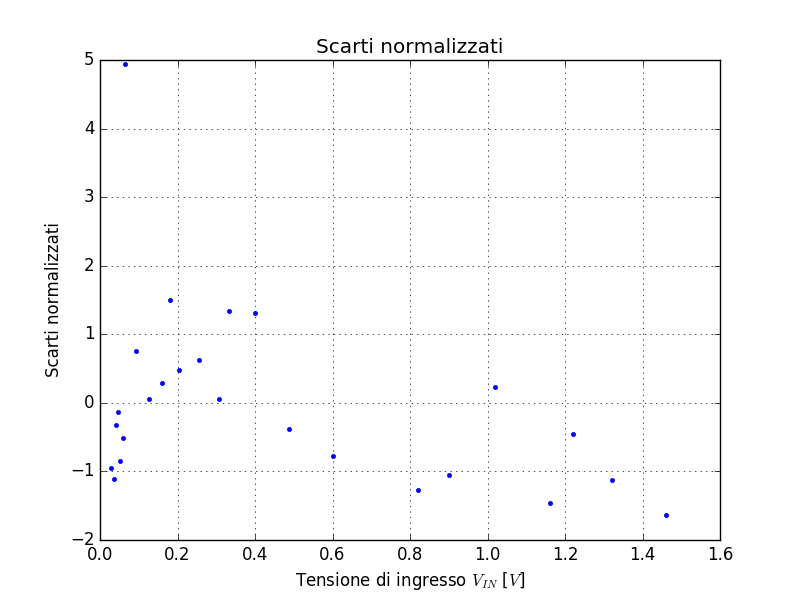
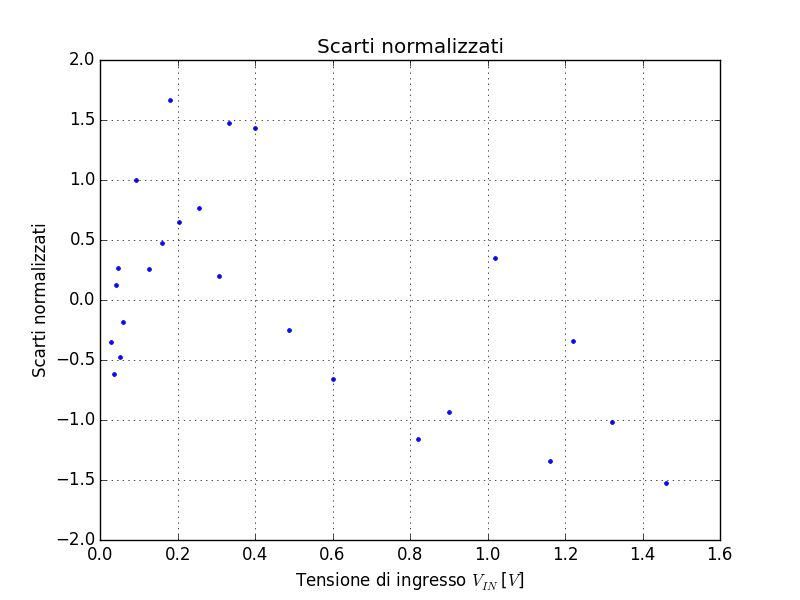
ciao di dimensioni adeguate

diff --git a/Esercitazione4/relazione/Relazione4.tex b/Esercitazione4/relazione/Relazione4.tex
@@ -48,14 +48,14 @@ Il circuito è stato realizzato usando i componenti riportati riportati di segui
 \begin{table}[h!]
 \centering
 \begin{tabular}{cccc}
-$R_1 = \unit{177.1 \pm 1.5}{\kilo\ohm}$ & $R_2 = \unit{18.06 \pm 0.15}{\kilo\ohm}$ & $R_C = \unit{9.93 \pm 0.09}{\kilo\ohm}$ & $R_E = \unit{986 \pm 9}{\ohm}$ \\
+$R_1 = \unit{177.1 \pm 1.5}{k\ohm}$ & $R_2 = \unit{18.06 \pm 0.15}{\kilo\ohm}$ & $R_C = \unit{9.93 \pm 0.09}{\kilo\ohm}$ & $R_E = \unit{986 \pm 9}{\ohm}$ \\
 $C_{IN} = \unit{230 \pm 10}{\nano\farad}$ & $C_{OUT} = \unit{98 \pm 6}{\nano\farad}$ & $C_E = \unit{100 \pm 10}{\micro\farad}$\\
 \end{tabular}
 %\caption{Valori dei componenti utilizzati per la realizzazione dell'amplificatore}
 \label{tab:componenti}
 \end{table}
 \noindent Ad eccezione dell'ultima parte dell'esperienza non è stata usata la resistenza $R_{es}$.
-
+%aggiungere immagine circuito
 \subsection{Misure e valori attesi}
 
 \paragraph{Punto di lavoro}
@@ -97,23 +97,24 @@ $V_B^{exp} = \unit{1.701 \pm 0.019}{\volt}$ & $V_E^{exp} = \unit{1.076 \pm 0.20}
 \end{tabular}
 \end{table}
 
-Non si riporta il valore atteso di $V_{BE}$ in quanto è stato usato proprio il valore misurato per ricavare gli altri. Si nota però che approssimativamente corrisponde ai valori tipici noti di $\sim \unit{0.6-0.7}{\volt}$
+Non si riporta il valore atteso di $V_{BE}$ in quanto è stato usato proprio il valore misurato per ricavare gli altri. Si nota però che approssimativamente corrisponde ai valori tipici noti di $\sim \unit{0.6-0.7}{\volt}$.
 % non so se ha veramente senso includere quest'ultima parte
 % pensiamo abbia senso, stiamo a vedere come la valutano
-
-\paragraph{Conclusioni}Le misure sono tutte compatibili con i valori attesi, ad eccezione della corrente di collettore che risulta poco inferiore alla previsione (la differenza fra $I_C$ misurata e attesa è $\unit{-24 \pm 23}{\micro\ampere}$).
 
 Si riportano le formule usate per calcolare le tensioni e le correnti attese, noti i valori delle resistenze e $V_{BE}$ e $V_{CC}$, oltre ovviamente al guadagno in corrente $h_{FE}$\footnote{nei calcoli si è usato il valore e la relativa incertezza ricavati nella esperienza precedente, ovvero $h_{FE} = 130.1 \pm 2.2$}; in particolare si riportano quelle per $V_B$ e $I_B$, le altre seguono direttamente da queste, senza ulteriori conti.
 \begin{align*}
 I_B &= \frac{\frac{R_2}{R_1 + R_2} V_{CC} - V_{BE}}{R_E (h_{FE} + 1) + R_1 // R_2} \\
 V_B &= V_{BE} + R_E (h_{FE} + 1) I_B
 \end{align*}
+\paragraph{Conclusioni}Le misure sono tutte compatibili con i valori attesi, ad eccezione della corrente di collettore che risulta poco inferiore alla previsione (la differenza fra $I_C$ misurata e attesa è $\unit{-24 \pm 23}{\micro\ampere}$).
+
+
 
 \subsection{Partitore $R_1-R_2$}
 Il valore di $I_B$ è dunque $I_C/h_{FE} = \unit{8.13 \pm 0.15}{\micro\ampere}$, mentre la corrente che passa per la resistenza $R_1$ è pari a $I_1 = \unit{102.5 \pm 1.1}{\micro\ampere}$, per cui $I_B$ è $\sim 8\%$ della corrente che scorre nel partitore. In questo caso non si può affermare che il partitore sia stiff, infatti $I_B$ è solo un ordine di grandezza più piccola della corrente $I_1$, per cui il rapporto di partizione non è indipendente dalla richiesta di corrente del transistor.
 
 \section{Risposta a segnali sinusoidali a frequenza fissa}
-Si è misurato il guadagno per varie ampiezze del circuito amplificatore riportato sulla scheda, escludendo $C_E$ ed $R_E$ (cioè disconnettendoli).
+Si è misurato il guadagno per varie ampiezze del circuito amplificatore riportato sulla scheda, escludendo $C_E$ ed $R_{es}$ (cioè disconnettendoli).
 
 \paragraph{Inversione di fase} Si è osservato che il segnale in uscita risultava in opposizione di fase rispetto al segnale in ingresso, come atteso. Si riporta in \figurename{\ref{fig:sfasamento}} la relativa schermata dell'oscilloscopio.
 
@@ -125,60 +126,70 @@ Si è misurato il guadagno per varie ampiezze del circuito amplificatore riporta
 \end{figure}
 
 \paragraph{Guadagno e linearità del circuito}
-Si è fittato il guadagno in tensione del circuito $A_V$ ottenendo per esso un valore di $9.62 \pm 0.09$, con un $\chi^2 / ndof = 10.1 / 26$. Si può affermare, dal grafico degli scarti, che la linearità è preservata per le tensioni d'ingresso che non portano il transistor in clipping.
+Si è fittato il guadagno in tensione del circuito $A_V$ ottenendo i seguenti risultati:
+\begin{table}[h!]
+	\centering
+	\begin{tabular}{ccc}
+		$A_v = 9.75 \pm 0.07$ & intercetta: $\unit{-0.015 \pm 0.006}{\volt}$ & $\chi^2 / ndof = 18.3 / 22$
+	\end{tabular}
+\end{table}
+ 
+ Che concorda entro $2\sigma$ con il valore atteso di $A_v = R_C/R_E = 10.07\pm0.13$.
+ 
+ I dati raccolti sono riportati in appendice in \tablename{\ref{tensione}} con gli outlier marcati dal simbolo $\spadesuit$, mentre il grafico delle misure e del fit è riportato di seguito. 
+ Da qui in poi gli errori di calibrazione verranno ignorati e verranno considerati solo gli errori di lettura, poiché sono quelli importanti ai fini dell'analisi dati, nel calcolo del guadagno infatti si effettua il rapporto tra due tensioni che sono affette dai medesimi errori di percentuali di calibrazione.
+ 
+ Si può affermare, dal grafico degli scarti, che la linearità è preservata per le tensioni d'ingresso che non portano il transistor in clipping.
 
-\begin{figure}
+\begin{figure}[h!]
 \centering
-\begin{minipage}[c]{0.7\textwidth}
-\centering
-\includegraphics[width=\textwidth]{../grafici/fit_guadagnopiccolisegnali.pdf}
-\end{minipage}
+\includegraphics[width=0.7\textwidth]{../grafici/fit_guadagnopiccolisegnali.pdf}
 \caption{Grafico e scarti del fit del guadagno del circuito per piccoli segnali}
 \end{figure}
 
 \paragraph{Clipping}
-Il segnale in uscita risultava simmetrico fino ad ampiezze di $\sim \unit{1.7}{\volt}$ in ingresso.
+Il segnale in uscita risulta sinusoidale fino ad ampiezze di $\sim \unit{1.7}{\volt}$ in ingresso.
 % forse avremmo potuto stimare un errore su quei 1.7 V, magari possiamo stimarlo "a memoria"
 % nessuno ci ha chiesto una misura quantitativa, era richiesto solo un resoconto qualitativo, quindi lasciamo il circa anziché l'errore, però stiamo a vedere come ce la valutano
-Per intensità maggiori si osservava che l'uscita era tagliata dal basso. Questo taglio del segnale (riportato in \figurename{\ref{fig:clipping}}) corrisponde ad un regime di funzionamento del transistor diverso da quello attivo, in cui sarebbe preservata la linearità.
+Per intensità maggiori si osserva che l'uscita è tagliata dal basso. Questo taglio del segnale (riportato in \figurename{\ref{fig:clipping}}) corrisponde ad un regime di funzionamento del transistor diverso da quello attivo, in cui sarebbe preservata la linearità.
 
 Si può identificare tale regime con quello di saturazione. Infatti quando scorre una maggiore corrente nel collettore si ha una caduta di potenziale maggiore su $R_C$, e dunque una minore tensione in uscita. Arrivando in saturazione il transistor non è in grado di erogare una corrente maggiore, e quindi la caduta di potenziale si assesta su un certo valore, finché la richiesta di corrente non diminuisce e il segnale in uscita riprende a salire.
 
 \begin{figure}[h!]
 	\centering
 	\includegraphics[width=0.54\textwidth]{../oscilloscopio/firstclipbasso.jpg}
-	\caption{}
+	\caption{clipping in saturazione}
 	\label{fig:clipping}
 \end{figure}
 
-Si era trovato che il punto di lavoro del transistor era fissato ad una corrente di collettore relativamente bassa, e quindi vicina al regime di interdizione. Tracciando la retta di carico si nota però che la pendenza di questa è relativamente piccola in valore assoluto, per cui, per ottenere spostamenti verticali\footnote{sul grafico delle curve caratteristiche di collettore, quindi piccole variazioni di $I_C$} anche ridotti, che porterebbero il transistor a lavorare in interdizione, si hanno notevoli spostamenti orizzontali\footnote{cioè variazioni di $V_{CE}$}, che portano dunque il transistor a lavorare in saturazione per segnali in ingresso di ampiezza minore rispetto a quelli che sarebbero necessari a portarlo in interdizione.
+Si è trovato che il punto di lavoro del transistor è fissato ad una corrente di collettore relativamente bassa, e quindi vicina al regime di interdizione. Tracciando la retta di carico si nota però che la pendenza di questa è relativamente piccola in valore assoluto, per cui, per ottenere spostamenti verticali\footnote{sul grafico delle curve caratteristiche di collettore, quindi piccole variazioni di $I_C$} anche ridotti, che porterebbero il transistor a lavorare in interdizione, si hanno notevoli spostamenti orizzontali\footnote{cioè variazioni di $V_{CE}$}, che portano dunque il transistor a lavorare in saturazione per segnali in ingresso di ampiezza minore rispetto a quelli che sarebbero necessari a portarlo in interdizione.
 % poi ci metto qualche numerello per rendere la cosa più quantitativa
 % come per il commento precedente non era richiesto nulla se non qualitativo, stiamo a vedere
 
-Per segnali in ingresso di ampiezza ancora maggiore ottengo il taglio dell'uscita anche dall'alto, arrivando a oscillare quindi tra i due regimi di saturazione e interdizione, si veda \figurename{\ref{fig:clippingdoppio}}.
+Per segnali in ingresso di ampiezza ancora maggiore si ottiene il taglio dell'uscita anche dall'alto, arrivando a oscillare quindi tra i due regimi di saturazione e interdizione, si veda \figurename{\ref{fig:clippingdoppio}}.
 
 \begin{figure}[h!]
 	\centering
 	\includegraphics[width=0.54\textwidth]{../oscilloscopio/clipall.jpg}
-	\caption{}
+	\caption{clipping in saturazione e interdizione}
 	\label{fig:clippingdoppio}
 \end{figure}
 
 \subsection{Impedenza d'ingresso}
 I valori ottenuti di $V_1$ e $V_2$, con riferimento alla scheda, sono rispettivamente $\unit{1.360 \pm 0.008}{\volt}$ e $\unit{700 \pm 4}{\milli\volt}$, e per misurarle si è usata una resistenza $R_S = \unit{14.70 \pm 0.13}{\kilo\ohm}$.
-Si è così ottenuta un'impedenza d'ingresso pari a $R_{in} = \unit{15.6 \pm 0.3}{\kilo\ohm}$.
+Si è così ottenuta un'impedenza d'ingresso pari a $R_{in} = \unit{15.6 \pm 0.3}{\kilo\ohm}$ che   con il valore atteso di $R^{exp}_{in} = \unit{14.59 \pm 0.10}{k\ohm}$.
 
 \subsection{Impedenza d'uscita}
 Come nel paragrafo precedente: $V_1 = \unit{12.8 \pm 0.07}{\volt}$, $V_2 = \unit{6.56 \pm 0.04}{\volt}$, $R_L = \unit{9.87 \pm 0.09}{\kilo\ohm}$.
-Si è così ottenuta un'impedenza d'uscita pari a $R_{out} = \unit{9.39 \pm 0.19}{\kilo\ohm}$.
+Si è così ottenuta un'impedenza d'uscita pari a $R_{out} = \unit{9.39 \pm 0.19}{\kilo\ohm}$ che non concorda con il valore atteso di $R_{out}^{exp} = \unit{9.93 \pm 0.09}{\kilo\ohm}$.
 
 \section{Risposta in frequenza}
 
-Si è misurata la risposta in frequenza del circuito in esame in un range tra $\unit{10}{\hertz}$ ed $\unit{1}{\mega\hertz}$ con una tensione di ingresso costante di $\unit{1.00 \pm 0.03}{\volt}$. Di seguito si riportano i dati raccolti e il diagramma di Bode da questi ricavato. In tutte le tabelle e nell'analisi dati sono state ignorate le incertezze di calibrazione, e sono stati considerati solo gli errori di lettura. I dati raccolti sono elencati in \tablename{\ref{frequenza}}.
+Si è misurata la risposta in frequenza del circuito in esame in un range tra $\unit{10}{\hertz}$ ed $\unit{1}{\mega\hertz}$ con una tensione di ingresso costante di $\unit{1.00 \pm 0.03}{\volt}$. I dati raccolti sono elencati in appendice in \tablename{\ref{frequenza}} e di seguito è riportato il grafico delle misure effettuate.
 
 \begin{figure}[h!]
 	\centering
-		\includegraphics[width=0.8\textwidth]{../grafici/fast_plot_f_domain.pdf}
+		\includegraphics[width=0.7\textwidth]{../grafici/fast_plot_f_domain.pdf}
 		\caption{Risposta in frequenza}
 		\label{early}
 \end{figure}
@@ -196,7 +207,7 @@ Il grafico mostra un comportamento divisibile in tre bande di risposta:
 \end{itemize}
 
 Si è stimata la frequenza di taglio del circuito misurando la frequenza per la quale si ha che il guadagno si riduce di un fattore $1/\sqrt{2}$ rispetto a quello misurato nella banda centrale. Si è stimato l'errore valutando quando, al variare della frequenza, si misurava una variazione apprezzabile della tensione di uscita.
-I risultati ottenuti sono stati: $f_1 = \unit{51 \pm 4}{\hertz}$ e $f_2= \unit{92 \pm 7}{\kilo\hertz}$.
+I risultati ottenuti sono stati: $f_{low} = \unit{51 \pm 4}{\hertz}$ e $f_{high}= \unit{92 \pm 7}{\kilo\hertz}$.
 Si è quindi provato a fittare il comportamento a basse e alte frequenze nell'ipotesi fatta precedentemente che il circuito si comporti come se fosse in serie ad un filtro passa alto/basso rispettivamente.
 I risultati dei fit sono stati:
 \begin{table}[h!]
@@ -223,10 +234,11 @@ Di seguito riportiamo i grafici dei fit eseguiti.
 \end{figure}
 
 \paragraph{Conclusioni}
-Tutte le misure di $f_{low}$ sono compatibili tra loro e con il valore atteso a meno di $1\sigma$, anche le misure di $f_{high}$ sono compatibili tra loro e concordano almeno in ordine di grandezza con la stima del valore atteso.
+Tutte le misure di $f_{low}$ sono compatibili tra loro e con il valore atteso a meno di $1\sigma$, anche le misure di $f_{high}$ sono compatibili tra loro e concordano almeno in ordine di grandezza con la stima del valore atteso. I valori di $A_v$ invece non concordano con quelli attesi.
+
 \section{Aumento del guadagno}
 
-Si è inserita la resistenza $Res = \unit{100.7 \pm 1.1}{\ohm}$ nel circuito e si è proceduto alla misura del guadagno al variare delle tensione di ingresso (a frequenza costante di $\unit{5.03 \pm 0.05}{\kilo\hertz}$). I dati raccolti sono riportati in appendice in \tablename{\ref{guadagno}}.
+Si è inserita la resistenza $R_{es} = \unit{100.7 \pm 1.1}{\ohm}$ nel circuito e si è proceduto alla misura del guadagno al variare delle tensione di ingresso (a frequenza costante di $\unit{5.03 \pm 0.05}{\kilo\hertz}$). I dati raccolti sono riportati in appendice in \tablename{\ref{guadagno}}.
 
 \begin{figure}[h!]
 	\centering
@@ -238,28 +250,31 @@ Il guadagno è stato valutato fittando con una retta $V_{IN}$ in funzione di $V_
 \begin{table}[h!]
 \centering 
 \begin{tabular}{ccc}
-$A_v = -80.5 \pm 2.6$ & intercetta di $\unit{0.05 \pm 0.16}{\volt}$ & $\chi^2/ndof = 4.5/6$
+$A_v = -80.5 \pm 2.6$ & intercetta di $\unit{0.05 \pm 0.16}{\volt}$ & $\chi^2/ndof = 6.2/5$
 \end{tabular}
 \end{table}
 
-Come è chiaro $A_v$ non è compatibile con il risultato della formula $A_v = -R_C/Res = 98.6 \pm 1.4$ perché questa formula è il risultato dell'approssimazione $h_{fe}*Z_c >> h_{ie}$, che non è valida in questo caso poichè $h_{fe} * Z_c \simeq h_{fe} * Res \simeq \unit{130 * 100}{\ohm} = \unit{13}{\kilo\ohm} $ che è confrontabile a $h_{ie}$ che secondo il datasheet vale $\sim \unit{4}{\kilo\ohm}$, applicando la formula non approssimata $A_v = -h_{fe}*R_C/(h_{fe}*Z_c + h_{ie}) \simeq 77$ che è in ragionevole accordo con il valore trovato.
-
+Come è chiaro $A_v$ non è compatibile con il risultato della formula $A_v = -R_C/Res = -98.6 \pm 1.4$ perché questa formula è il risultato dell'approssimazione $h_{fe}*Z_c >> h_{ie}$, che non è valida in questo caso poichè $h_{fe} * Z_c \simeq h_{fe} * R_{es} \simeq \unit{130 * 100}{\ohm} = \unit{13}{\kilo\ohm} $ che è confrontabile a $h_{ie}$ che secondo il datasheet vale $\sim \unit{4.4}{\kilo\ohm}$, applicando la formula non approssimata $A_v = -h_{fe}*R_C/(h_{fe}*Z_c + h_{ie}) \simeq 77$ che è in ragionevole accordo con il valore trovato.
+\pagebreak
 \section{Appendice: Dati}
 Si riportano qui le tabelle di dati usati per i fit e i grafici.
 
-\begin{figure}[h!]
+
+\begin{figure}[h]
 	\centering
+		\begin{minipage}[c]{0.4\textwidth}
+	\centering
+	\input{../tabelle/tab_guadagnopiccolisegnali_ol.txt}
+	\captionof{table}{Dati risposta in frequenza}
+	\label{tensione}
+		\end{minipage}
 	\begin{minipage}[c]{0.4\textwidth}
 		\centering
-		\resizebox{\textwidth}{!}{
-			\input{../tabelle/tab_f_domain.txt}}
+			\input{../tabelle/tab_f_domain.txt}
 		\captionof{table}{Dati risposta in frequenza}
 		\label{frequenza}
-	\end{minipage}
-	\begin{minipage}[c]{0.4\textwidth}
 		\centering
-		\resizebox{\textwidth}{!}{
-			\input{../tabelle/tab_C_E.txt}}
+			\input{../tabelle/tab_C_E.txt}
 		\captionof{table}{Dati aumento guadagno}
 		\label{guadagno}
 	\end{minipage}

diff --git a/Esercitazione4/Esercitazione4.py b/Esercitazione4/Esercitazione4.py
@@ -1,7 +1,7 @@
 from pylab import *
-#path = "C:\\Users\\Roberto\\Documents\\GitHub\\Lab3\\"
+path = "C:\\Users\\Roberto\\Documents\\GitHub\\Lab3\\"
 #path = "C:\\Users\\Studenti\\Desktop\\Lab3\\"
-path = "/home/alessandro/Documents/Università/3°anno/Laboratorio3/Lab3/"
+#path = "/home/alessandro/Documents/Università/3°anno/Laboratorio3/Lab3/"
 sys.path = sys.path + [path]
 from analyzer import *
 import uncertainties
@@ -12,6 +12,30 @@ dir= path + "Esercitazione4/"
 #GUADAGNO per piccoli segnali#
 
 file="guadagnopiccolisegnali"
+
+def f(x, a, b):
+    return a*x + b
+
+p0=[1,1]
+
+def XYfun(a):
+    return a[0],a[1]
+
+unit=["volt_osc_nocal","volt_osc_nocal"]
+
+titolo="Guadagno dell'amplificatore per piccoli segnali"
+Xlab="Tensione di ingresso $V_{IN}$ [$V$]"
+Ylab="Tensione di uscita $V_{OUT}$ [$V$]"
+
+tab=["$V_{IN}$ [$V$]","$V_{OUT}$ [$V$]"]
+
+fit(dir,file,unit,f,p0,titolo,Xlab,Ylab,XYfun,preplot=True,table=True,tab=tab,scarti=True)
+
+###########################################################################
+
+#GUADAGNO per piccoli segnali outlier#
+
+file="guadagnopiccolisegnali_ol"
 
 def f(x, a, b):
     return a*x + b
@@ -126,7 +150,7 @@ Ylab="Guadagno $A_v$ [dB]"
 
 tab=["Frequenza [Hz]","$V_{OUT}$ [$V$]"]
 
-fit(dir,file,unit,f,p0,titolo,Xlab,Ylab,XYfun,fig=fig,xlimp=[80,120])
+#fit(dir,file,unit,f,p0,titolo,Xlab,Ylab,XYfun,fig=fig,xlimp=[80,120])
 
 ###########################################################################
 
@@ -153,7 +177,7 @@ Ylab="Guadagno $A_v$ [dB]"
 
 tab=["Frequenza [Hz]","$V_{OUT}$ [$V$]"]
 
-fit(dir,file,unit,f,p0,titolo,Xlab,Ylab,XYfun,fig=fig,xlimp=[70,120])
+#fit(dir,file,unit,f,p0,titolo,Xlab,Ylab,XYfun,fig=fig,xlimp=[70,120])
 
 ###########################################################################
 
@@ -180,7 +204,7 @@ Ylab="Guadagno $A_v$ [dB]"
 
 tab=["Frequenza [Hz]","$V_{OUT}$ [$V$]"]
 
-fit(dir,file,unit,f,p0,titolo,Xlab,Ylab,XYfun,fig=fig,xlimp=[92,102])
+#fit(dir,file,unit,f,p0,titolo,Xlab,Ylab,XYfun,fig=fig,xlimp=[92,102])
 
 ###########################################################################
 

diff --git a/analyzer.py b/analyzer.py
@@ -848,6 +848,7 @@ def fit(directory, file, units, f, p0, titolo="", Xlab="", Ylab="", XYfun=XYfunc
 	"""
 	
 	columns = loadtxt(directory+"data/"+file+".txt", unpack = True)
+#	ol = loadtxt(directory+"data/"+file+"_ol.txt", unpack = True)
 
 	dcolumns = zeros((len(columns),len(columns[0])))
 	for i in range(len(columns)):
